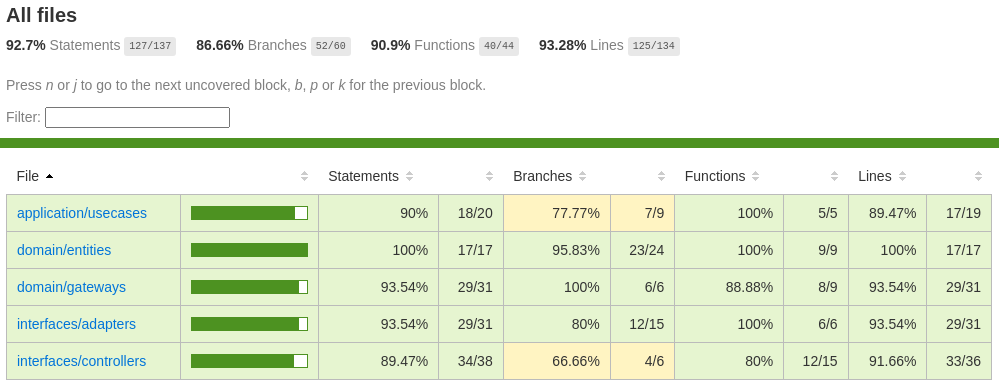
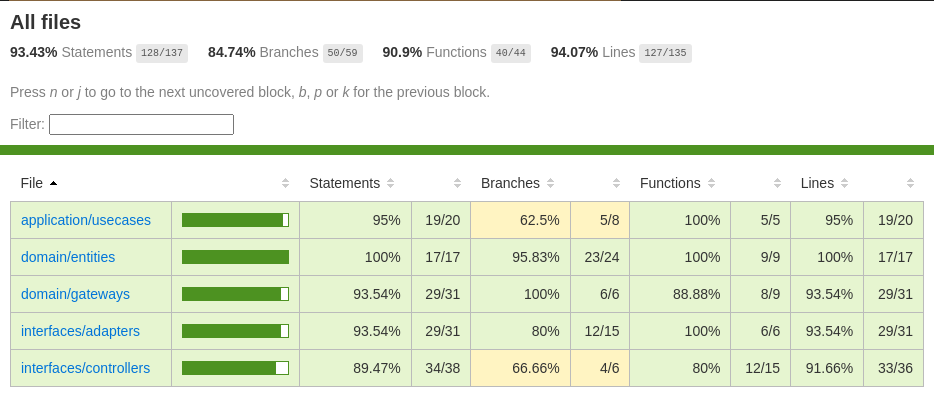
Compose completo, Terraform, Deploy k8s, Documentação e Test

diff --git a/src/infrastructure/swagger/swagger.ts b/src/infrastructure/swagger/swagger.ts
@@ -7,7 +7,27 @@ const options = {
     info: {
       title: 'API Documentation',
       version: '1.0.0'
-    }
+    },
+    components: {
+      securitySchemes: {
+        bearerAuth: {
+          type: 'http',
+          name: 'bearerAuth',
+          in: 'header',
+          bearerFormat: 'JWT',
+          scheme: 'bearer'
+        }
+      }
+    },
+    security: [
+      {
+        bearerAuth: []
+      }
+    ],
+    schemes: [
+      'https',
+      'http'
+    ]
   },
   // Coloque o caminho para seus comentários JSDoc aqui
   apis: [`./**/*.${process.env.production ? 'js' : 'ts'}`, 'interfaces/**/*.js']

diff --git a/readme.md b/readme.md
@@ -137,54 +137,19 @@ Com os requisitos já identificados, configure abaixo no secrets do github.
 ```
 AWS_ACCESS_KEY = "xxxxxxxxxxxxxxxxx"
 AWS_SECRET_KEY = "xxxxxxxxxxxxxxxxx"
+SONAR_HOST_URL = "xxxxxxxxxxxxxxxxx"
+SONAR_TOKEN    = "xxxxxxxxxxxxxxxxx"
 ```
 
 ## Uso
 
-Com os requisitos já identificados, configure abaixo no secrets do github.
+Com os requisitos já identificados, as variáveis configuradas no secrets do github.
 
-```
-   runs-on: ubuntu-latest
-    if: github.ref == 'refs/heads/master'
-    needs:
-      - run-tests
+Efetue o Pull Request com a branch master para executar o processo de
 
-    steps:
-    - name: Checkout do repositório
-      uses: actions/checkout@v2
-
-    - name: Configurando a AWS Credentials Action para o GitHub Actions
-      uses: aws-actions/configure-aws-credentials@v1
-      with:
-        aws-access-key-id: ${{ secrets.AWS_ACCESS_KEY }}
-        aws-secret-access-key: ${{ secrets.AWS_SECRET_KEY }}
-        aws-region: ${{ env.AWS_REGION }}
-      
-    - name: Login em Amazon ECR
-      id: login-ecr
-      uses: aws-actions/amazon-ecr-login@v1
-
-    - name: Instala dependencias
-      run: |
-        npm install
-
-    - name: Gera versão de distribuição
-      run: |
-        npm run build
-
-    - name: Build do Dockerfile, criação da Tag e Push Image em Amazon ECR
-      id: build-image
-      env:
-        ECR_REGISTRY: ${{ steps.login-ecr.outputs.registry }}
-      run: |
-        docker image build \
-        --tag ${{ env.ECR_REGISTRY }}/${{ env.ECR_REPOSITORY }}:latest \
-        --tag ${{ env.ECR_REGISTRY }}/${{ env.ECR_REPOSITORY }}:${{ env.SHORT_SHA }} \
-        .
-        docker push ${{ env.ECR_REGISTRY }}/${{ env.ECR_REPOSITORY }}:latest
-        docker push ${{ env.ECR_REGISTRY }}/${{ env.ECR_REPOSITORY }}:${{ env.SHORT_SHA }}
-        echo ${{ steps.login-ecr.outputs.registry }}
-```
+- Teste
+- Sonarqube
+- Deploy
 
 ### Execução do projeto
 
